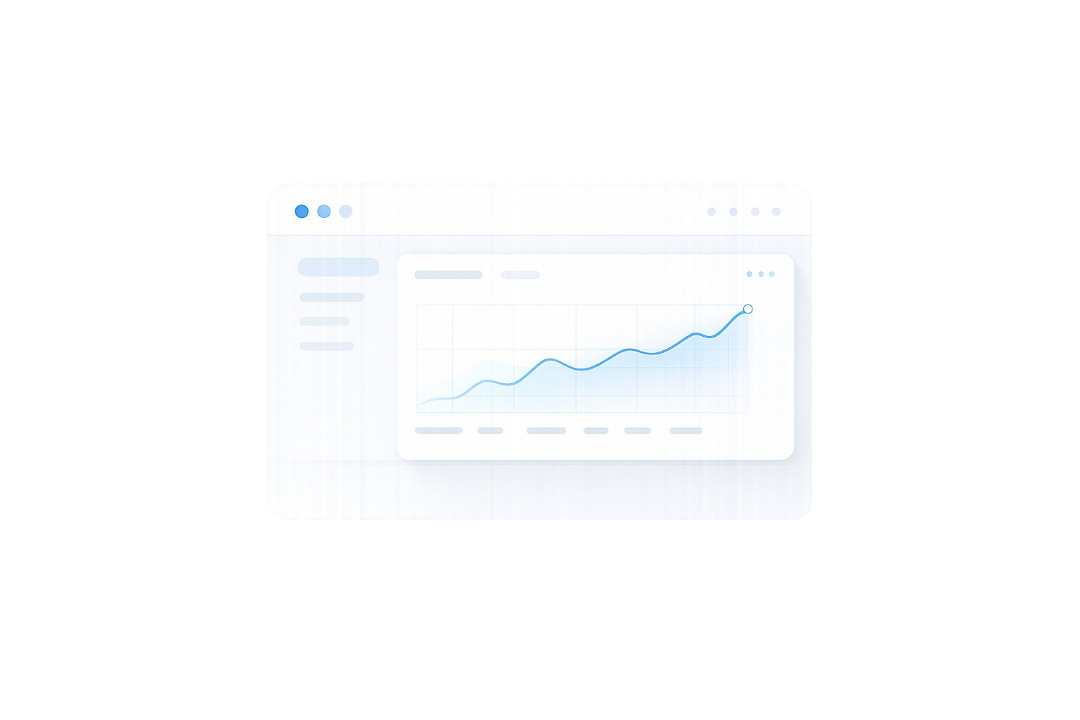
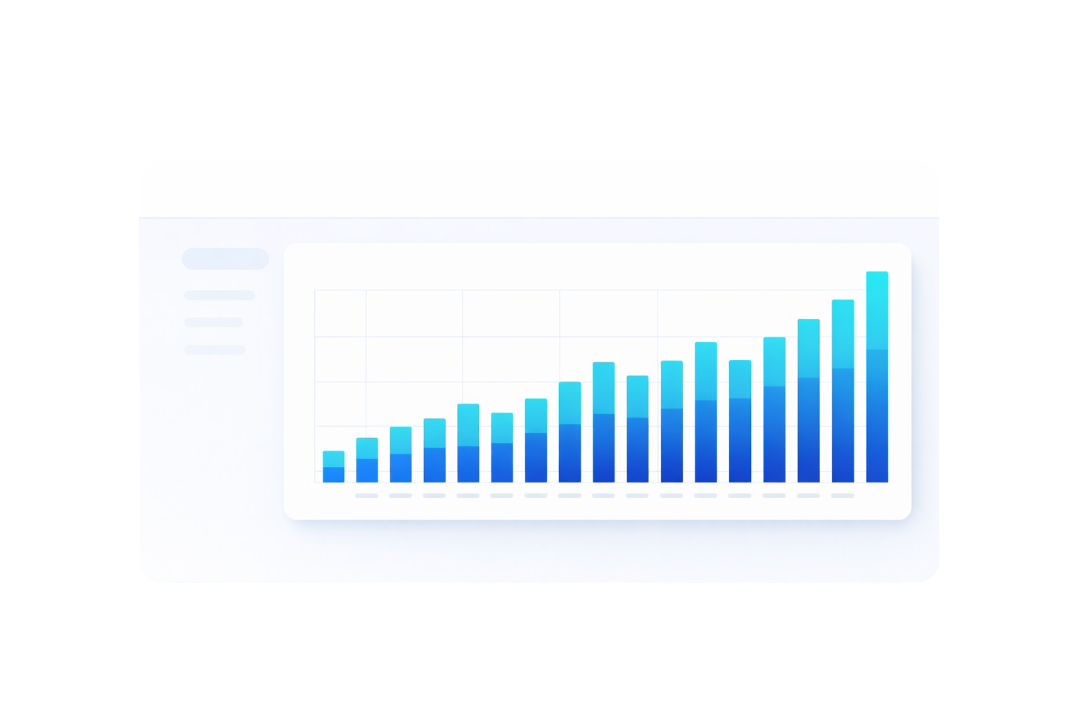
update #10

Changed region(s): [[0.275, 0.3667, 0.8556, 0.7639], [0.275, 0.3361, 0.4583, 0.4278], [0.275, 0.275, 0.3361, 0.3056]]

diff --git a/styles.css b/styles.css
@@ -479,7 +479,7 @@ main img:hover {
   animation-duration: 2s;
   filter: drop-shadow(0 2px 8px rgba(0, 0, 0, 0.05)) drop-shadow(0 0 20px rgba(56, 189, 248, 0.6));
 }
-/* Плавное увеличение и сдвиг вправо — через transition обёртки */
+/* Плавное увеличение и сдвиг вправо при наведении на кнопку */
 .hero:has(.btn-hero:hover) .hero-bg-stat-wrap {
   transform: scale(1.22) translateX(32px);
 }
